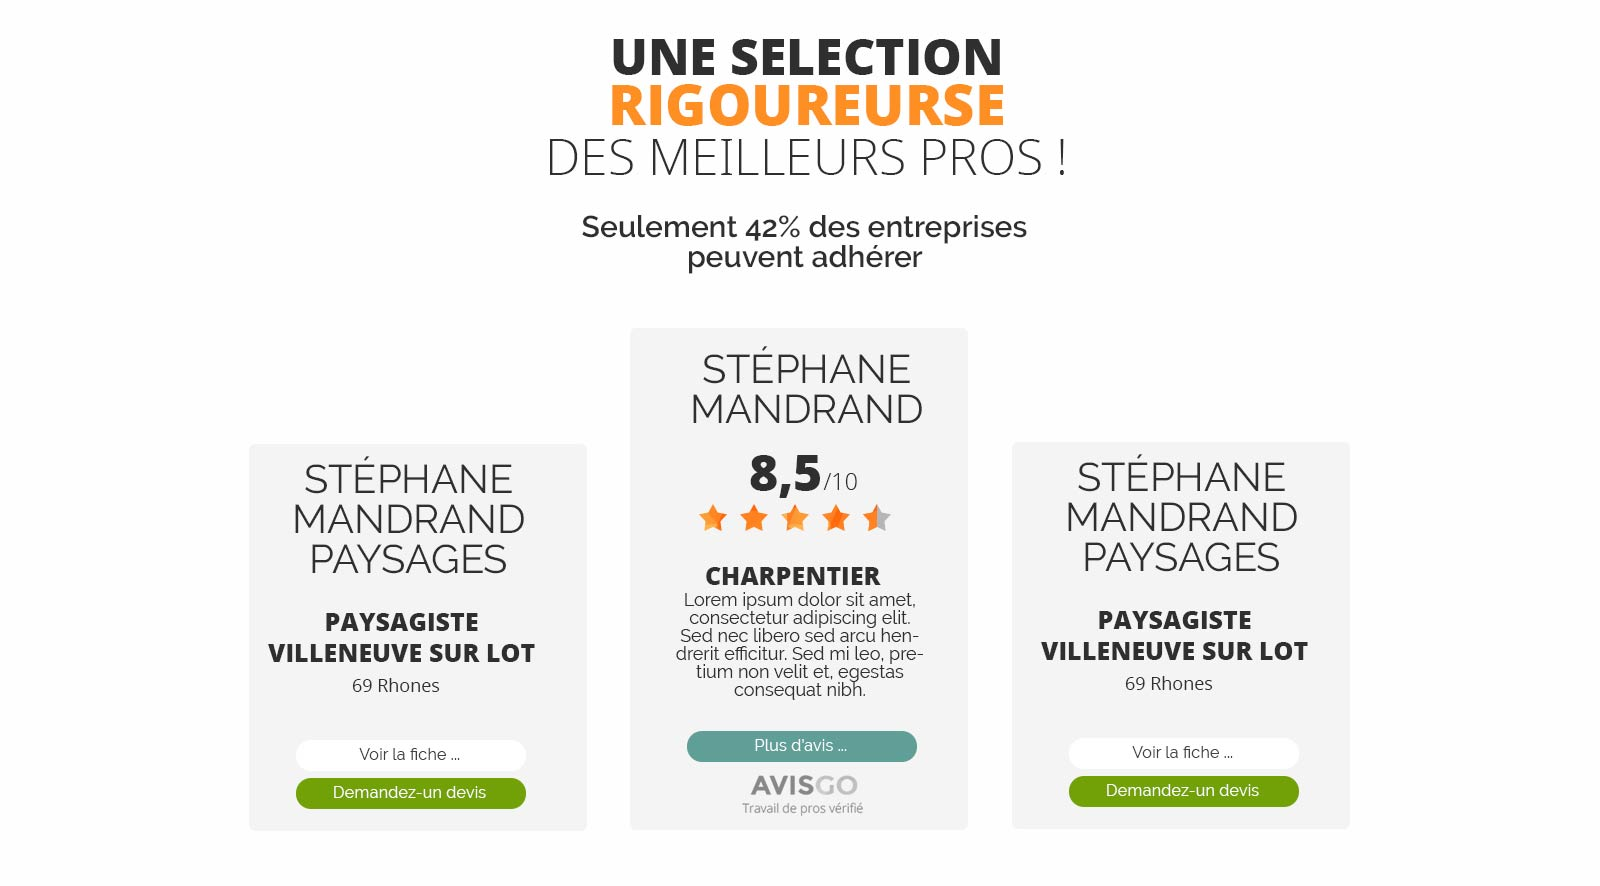
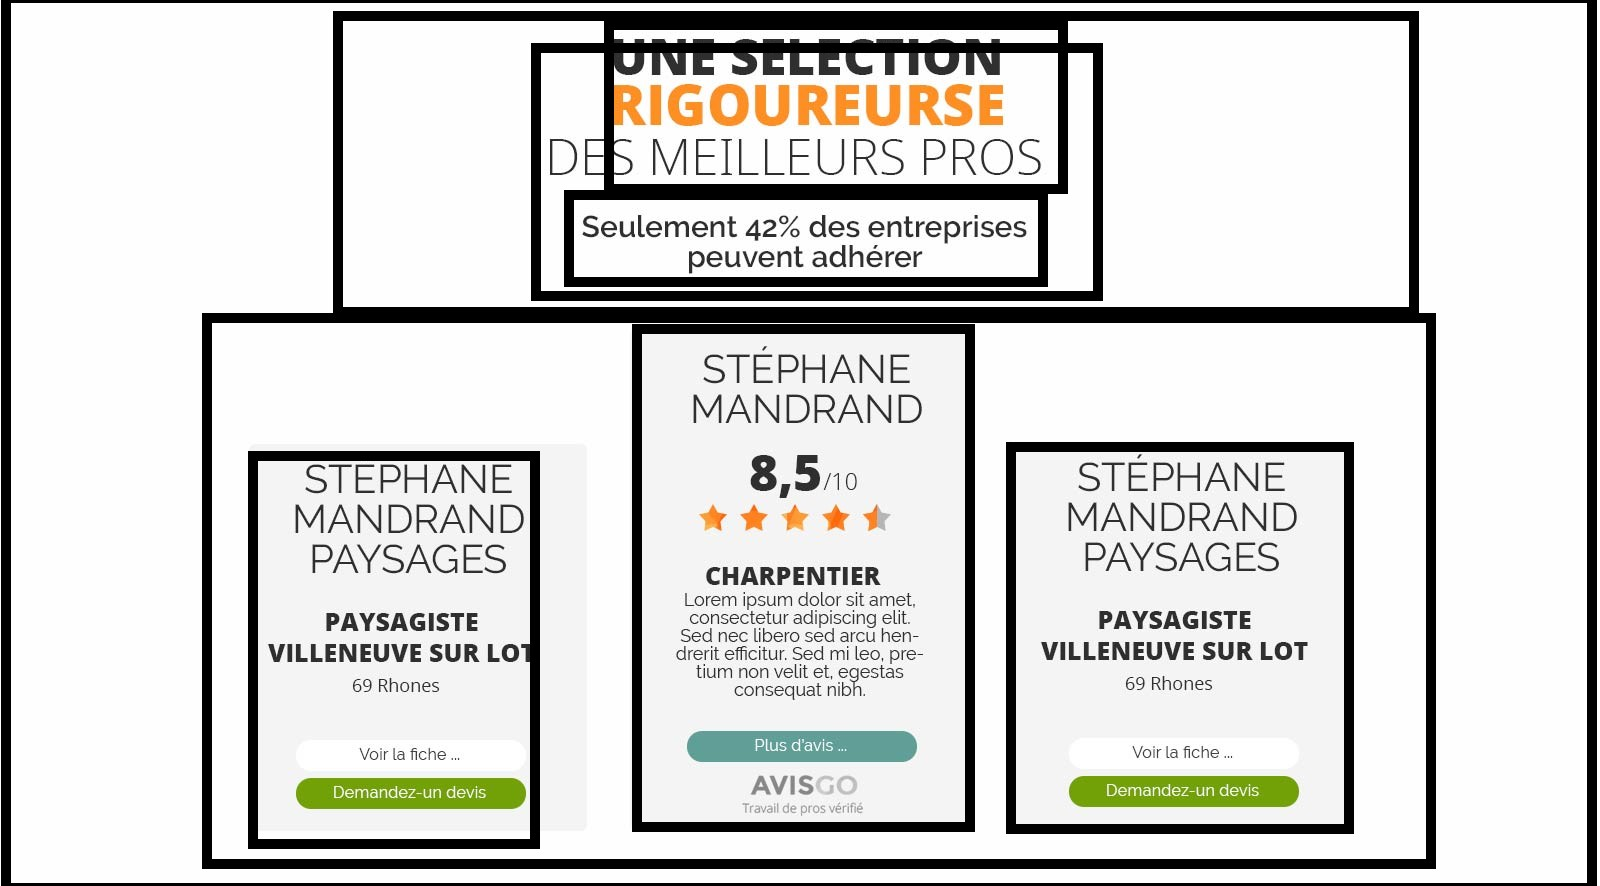
Commit Final

Changed region(s): [[0.0, 0.0, 1.0, 1.0]]

diff --git a/index.html b/index.html
@@ -1,12 +1,70 @@
 <!DOCTYPE html>
-<html lang="en">
+<html lang="fr">
 <head>
     <meta charset="UTF-8">
     <meta http-equiv="X-UA-Compatible" content="IE=edge">
     <meta name="viewport" content="width=device-width, initial-scale=1.0">
-    <title>Document</title>
+    <title>Page Test Clicken Web</title>
+    <link rel="stylesheet" href="style.css">
 </head>
 <body>
-    
+   <header>
+    <div class="header_flex">
+        <h1 class="selection">UNE SELECTION</h1>
+        <h1 class="Rigueur">RIGOUREURSE</h1>
+        <h1 class="Pros">DES MEILLEURS PROS !</h1>
+        <p>Seulement 42% des entreprises<span class="flex_p">peuvent adhérer</span></p>
+    </div>
+   </header> 
+   <main>
+    <div class="flex_main">
+        <article class="card">
+        <div class="card_content">
+            <h3>stéphane</h3>
+            <h3>mandran</h3>
+            <h3>paysages</h3>
+            <p class="text_weight">paysagistes</p> 
+            <p class="text_weight">villeneuve sur lot</p>
+            <p class="text_city">69 Rhones</p>
+        <div class="article_button">
+            <button class="button_white" href="#">Voir la fiche...</button>
+            <button class="button_green" href="#">Demande-un devis</button>
+        </div>
+        </div>
+        </article>
+
+        <article class="card-special">
+            <div class="card_content">
+                <h3>stéphane</h3>
+                <h3>mandran</h3>
+                <p class="notation_10"><span class="note">8,5</span>/10</p>
+                <div class="stars">
+                <img src="/etoiles.png">
+                </div>
+                <p class="text_weight">Charpentier</p>
+                <p class="Lorem">Lorem ipsum dolor sit amet, consectetur adipiscing elit, sed do eiusmod tempor incididunt ut labore et dolore magna aliqua. Ut enim ad minim veniam, quis nostrud exercitation ullamco laboris nisi.</p>
+                <button class="button_blue">Plus d'avis...</button>
+                <div class="avis">
+                <img src="/avis-go-nb.png">
+                </div>
+            </div>
+        </article>
+
+     <article class="card"> 
+        <div class="card_content">
+            <h3>stéphane</h3>
+            <h3>mandran</h3>
+            <h3>paysages</h3>
+            <p class="text_weight">paysagistes</p> 
+            <p class="text_weight">villeneuve sur lot</p>
+            <p class="text_city">69 Rhones</p>
+            <div class="article_button">
+                <button class="button_white" href="#">Voir la fiche...</button>
+                <button class="button_green" href="#">Demande-un devis</button>
+            </div>
+        </div>
+    </article>
+    </div>
+   </main>
 </body>
 </html>

diff --git a/style.css b/style.css
@@ -1,0 +1,147 @@
+h1{
+    font-family: 'Gill Sans', 'Gill Sans MT', Calibri, 'Trebuchet MS', sans-serif;
+    
+}
+body{
+    font-family: 'Gill Sans', 'Gill Sans MT', Calibri, 'Trebuchet MS', sans-serif;
+}
+.header_flex{
+ display: flex;
+ flex-direction: column;
+ text-align: center;
+ margin-bottom: 20px;
+}
+
+.header_flex h1{
+    margin-bottom: -35px;
+}
+.selection {
+    color:#303030;
+}
+.Rigueur{
+    color: #ff8f23;
+    font-size: 36px;
+}
+.Pros{
+    font-weight: 100;
+    color:#303030;
+    font-size: 38px;
+    
+}
+header p{
+    font-weight: 500;
+    font-size: 22px;
+    margin-top: 40px;
+    padding: 0cm;
+    color: #2f2f2f;
+}
+.flex_p{
+    display:flex;
+    flex-direction: column;
+    margin-top: -5px;
+
+}
+.card{
+    background-color: #f4f4f4;
+    width: 20%;
+    height: 300px;
+    
+}
+.card-special{
+    background-color: #f4f4f4;
+    width: 20%;
+    height: 350px;
+    margin-bottom: 45px;
+}
+.card_content{
+    display:flex;
+    justify-content: center;
+    align-items: center;
+    flex-direction: column;
+    margin-top: 40px;
+}
+.flex_main{
+    display: flex;
+    flex-direction: row;
+    align-items: center;
+    justify-content: center;
+    gap:25px;
+}
+
+button{
+    border-radius: 20px;
+    width: 165px;
+    height: 25px;
+    border:1px solid transparent;
+}
+h3{
+    font-size: 30px;
+    text-transform:uppercase;
+    font-weight: 100;
+    color:#303030;
+    margin-top: -35px;
+    
+    
+}
+.text_weight{
+    
+    font-size: 20px;
+    font-weight: bold;
+    text-transform: uppercase;
+    color: #2b2b2b;
+    margin-top: -10px;
+    
+    
+}
+.text_city{
+    margin-top: -5px;
+}
+article p{
+    margin-bottom: 10px;
+    
+}
+.button_white{
+    background-color: #ffff;
+}
+
+.button_green{
+    background-color: #6fa008;
+    color:white;
+}
+.button_blue{
+    background-color: #619e97;
+    color: white;
+}
+.article_button{
+    display: flex;
+    justify-content: center;
+    flex-direction: column;
+    margin-top: 30px;
+    gap: 5px;
+}
+.note{
+    font-size: 40px;
+    font-weight: 800;
+    color: #2b2b2b;
+    
+}
+.notation_10{
+    margin-top: -30px;
+}
+.stars img{
+    width: 140px;
+    
+}
+.stars{
+   margin-bottom: 30px;
+   margin-top: -10px;
+}
+.Lorem{
+    text-align: center;
+    font-size: 13px;
+    margin-top: -15px;
+    margin-bottom: 20px;
+}
+.avis img{
+    width: 110px;
+}
